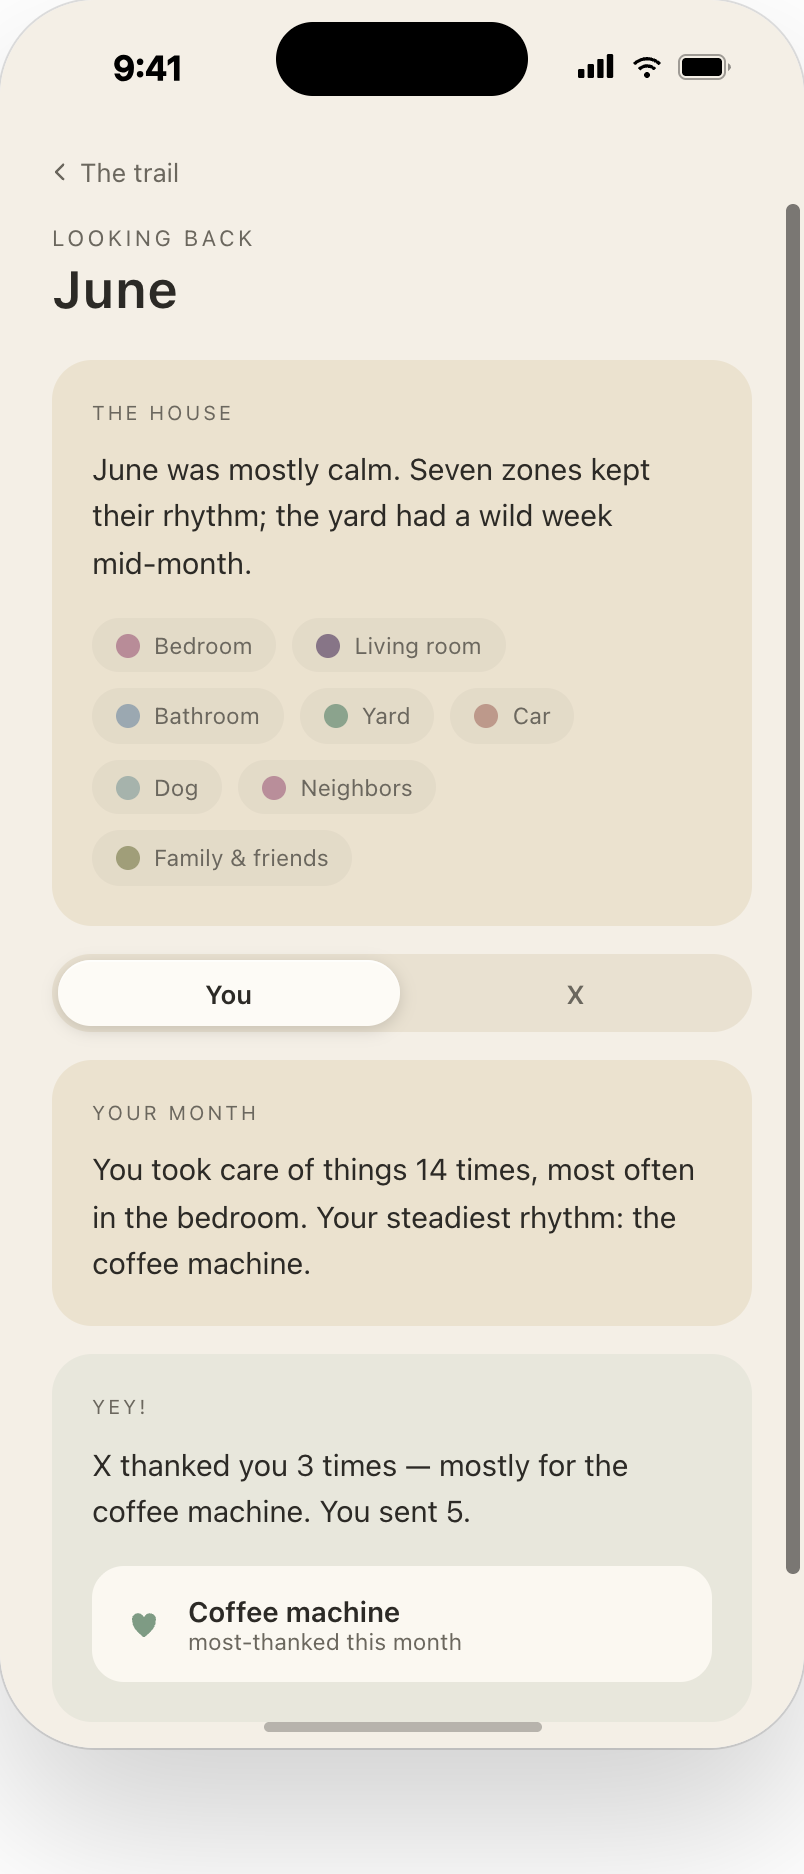
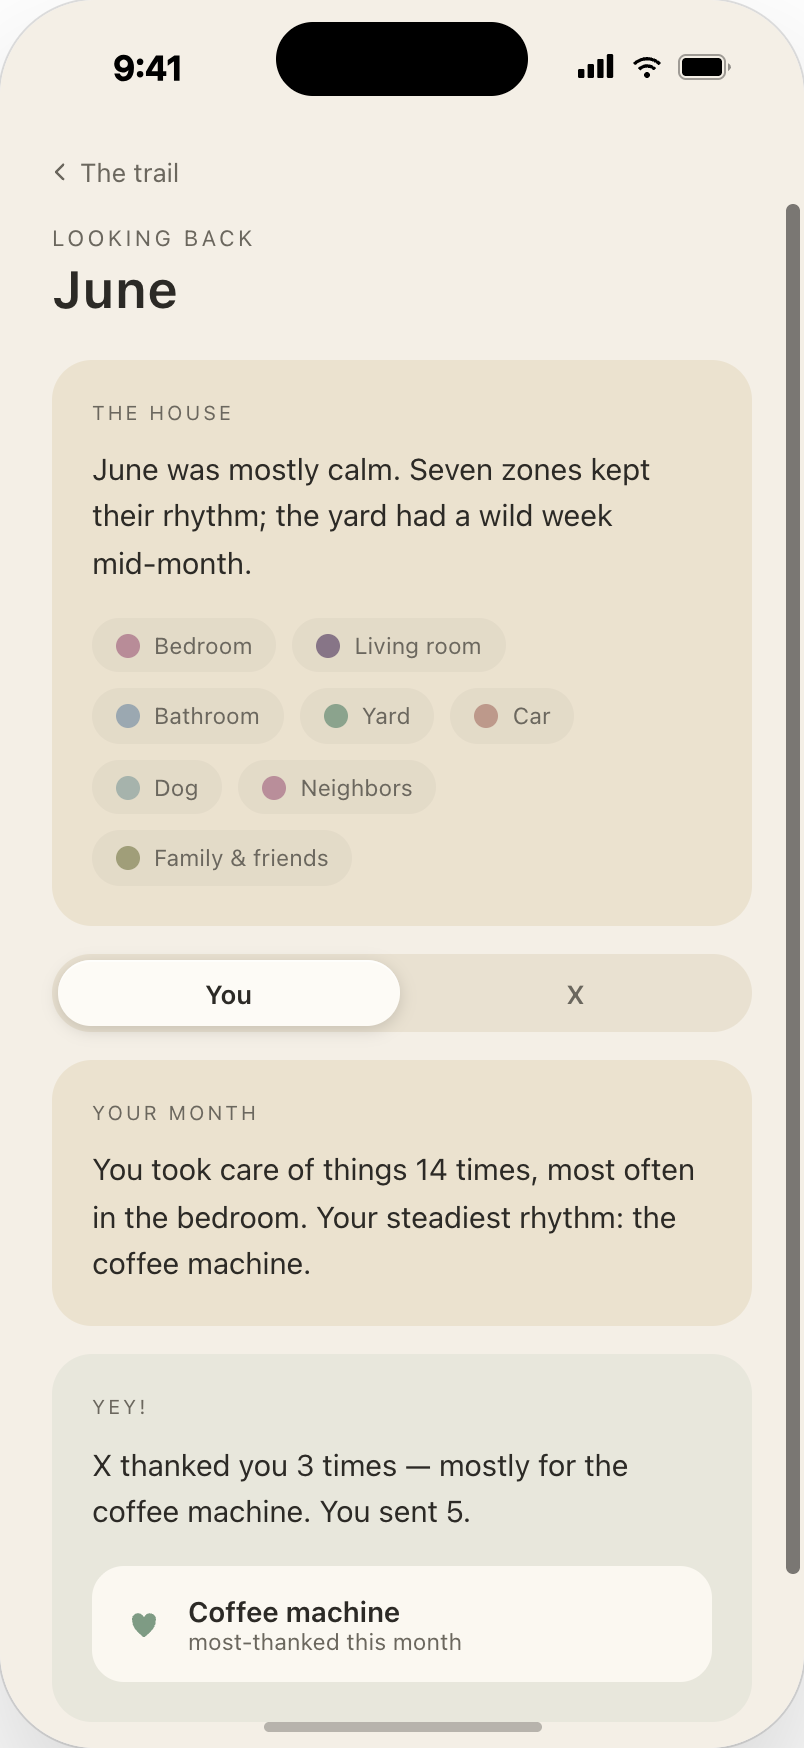
Crop the baked ground shadow off app screenshots; use sheets chore detail
Trim the semi-transparent shadow band beneath the device in all 15
numbered app exports so they end at the phone's bottom edge, and swap
the chore-detail shot for chore-sheets-nobg.png, which shows the
over-its-window state.

Claude-Session: https://claude.ai/code/session_01Q6SUvMZMC46DqEWzD9WQyS

diff --git a/highlight-nisse.html b/highlight-nisse.html
@@ -367,7 +367,7 @@
                   <figcaption class="caption"><strong>Zone detail</strong> &mdash; one area&rsquo;s open chores and their rhythms. Rename and delete live here too, behind a confirm.</figcaption>
                 </figure>
                 <figure>
-                  <img src="assets/07-chore-detail.png" alt="Chore detail — the rhythm card with last done, usual window and today, plus mark it done, plan it out, and the attributed history" loading="lazy" />
+                  <img src="assets/chore-sheets-nobg.png" alt="Chore detail for changing the sheets, over its window — the rhythm card with last done, usual window and today, plus mark it done, plan it out, and the attributed history" loading="lazy" />
                   <figcaption class="caption"><strong>Chore detail</strong> &mdash; freshness, not deadlines. The rhythm card shows the usual window; done, undo and backdate keep the record honest.</figcaption>
                 </figure>
                 <figure>
